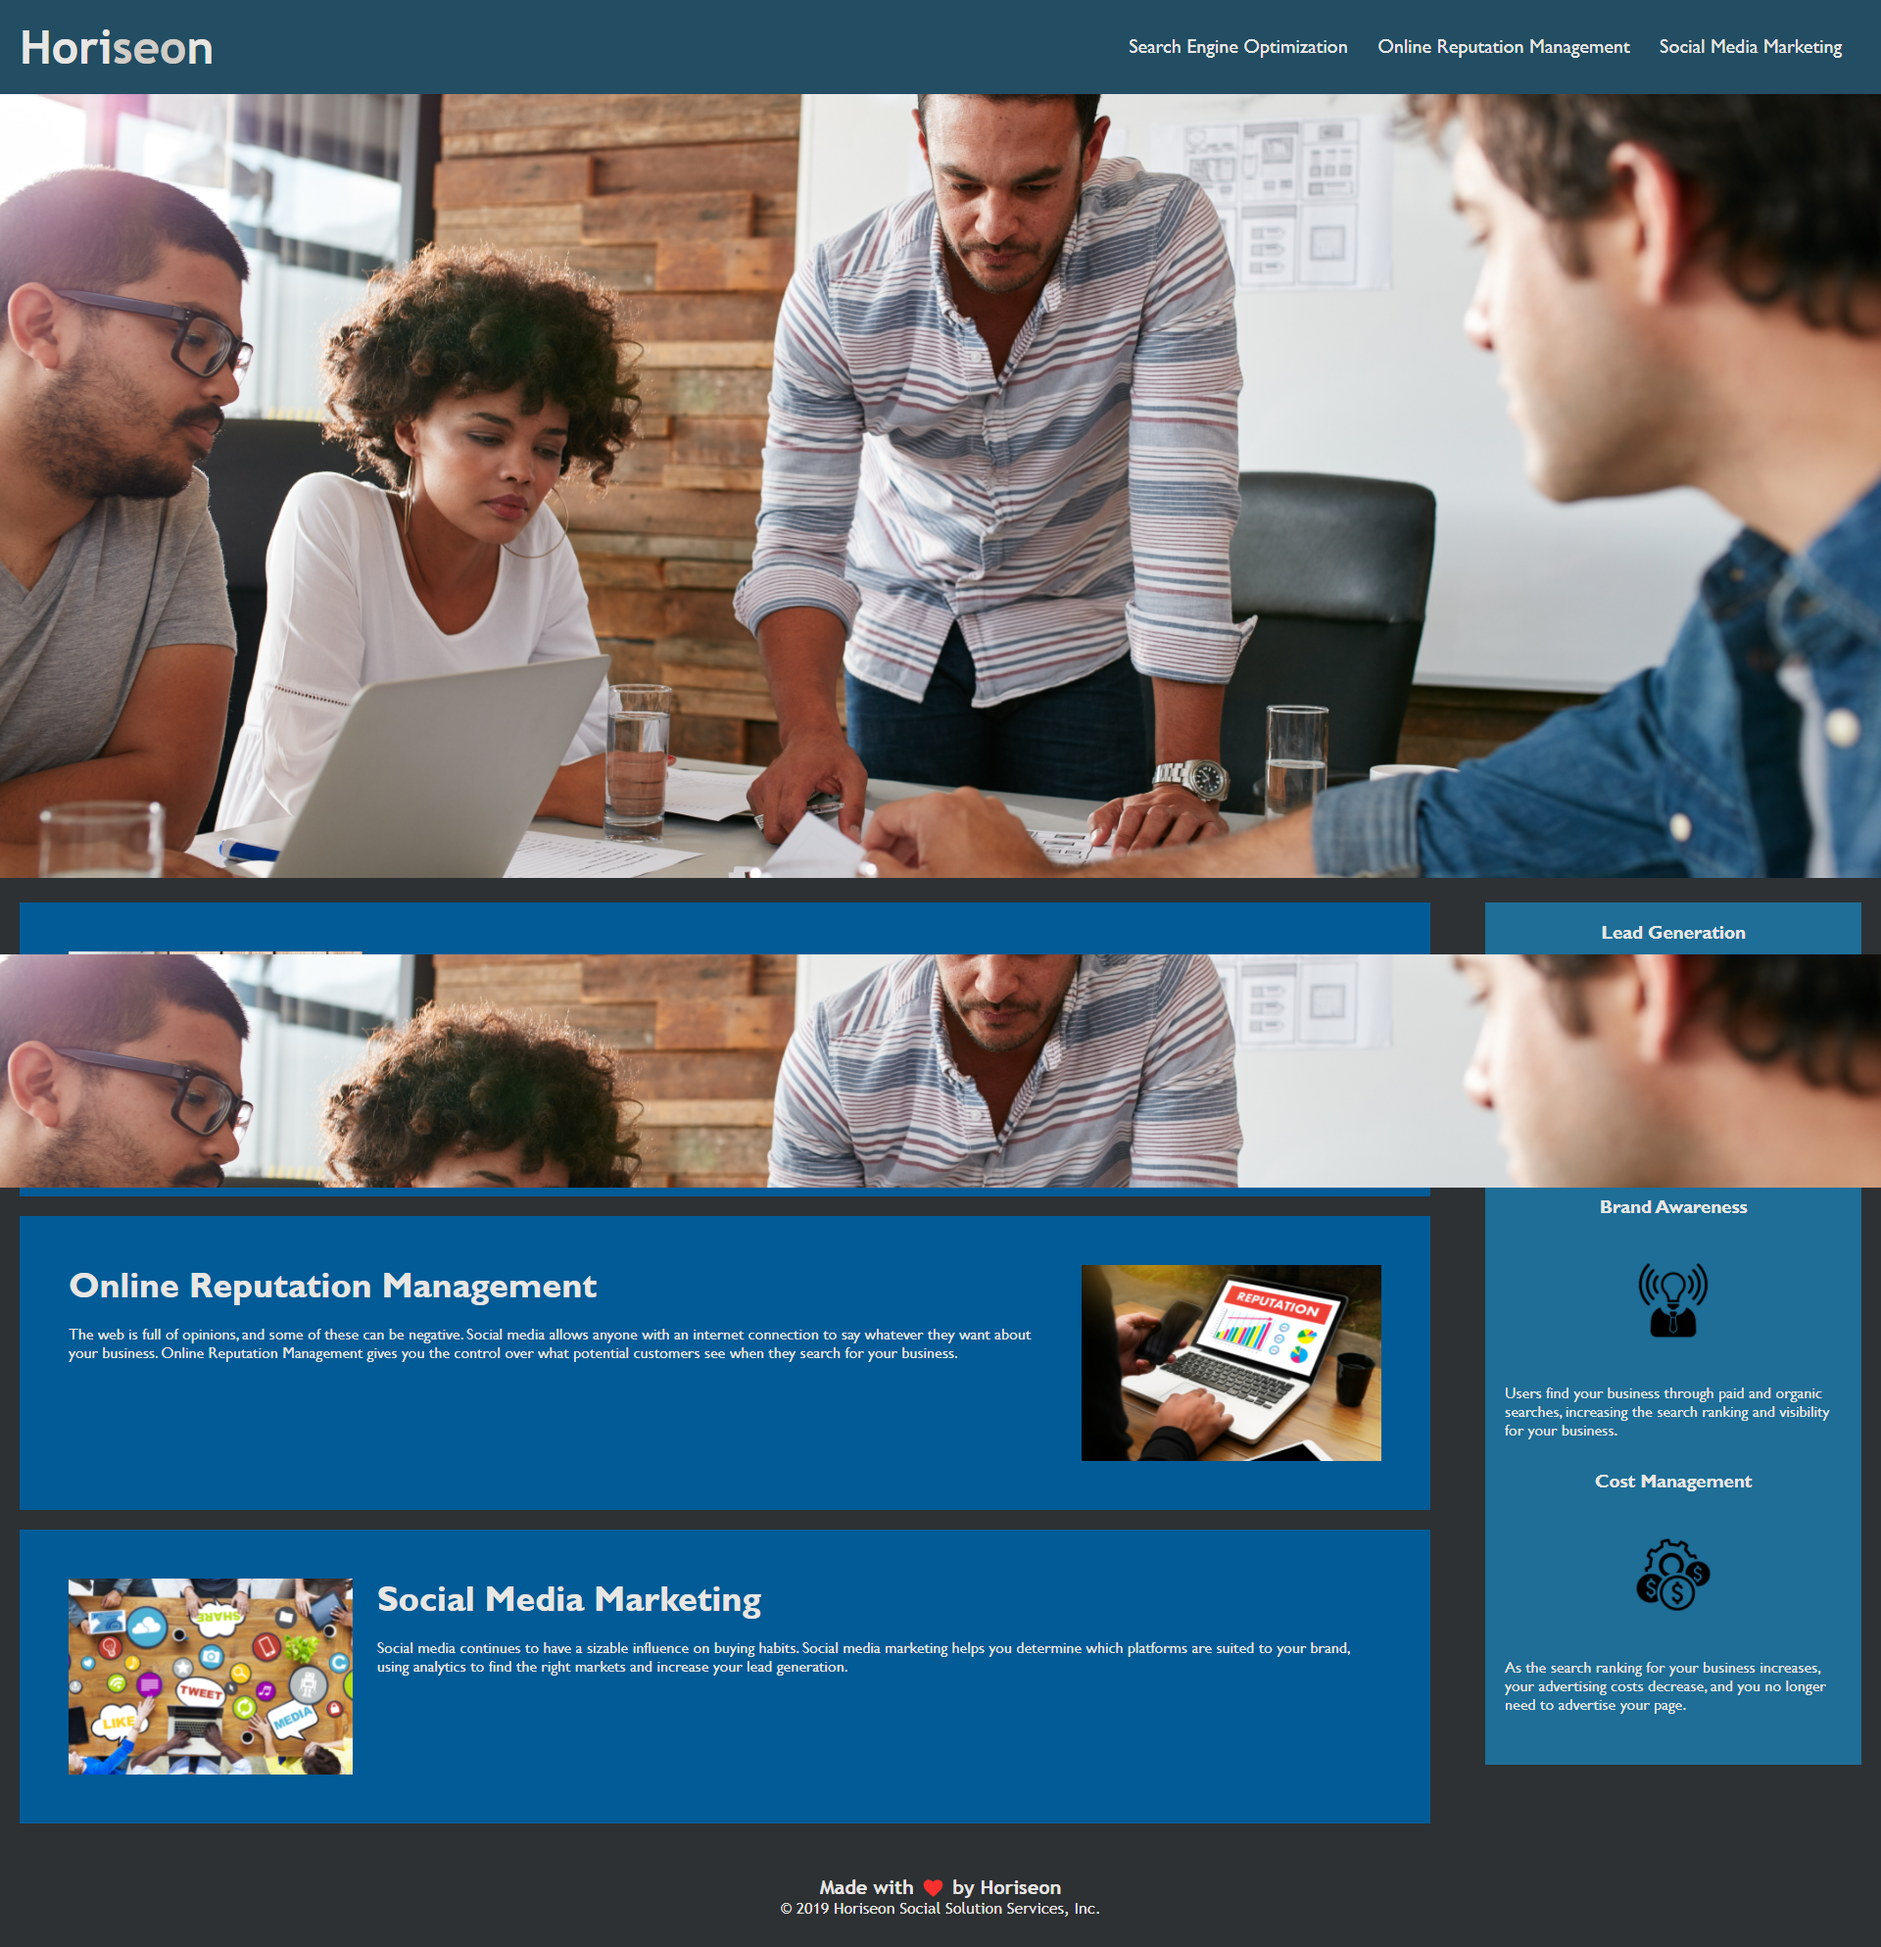
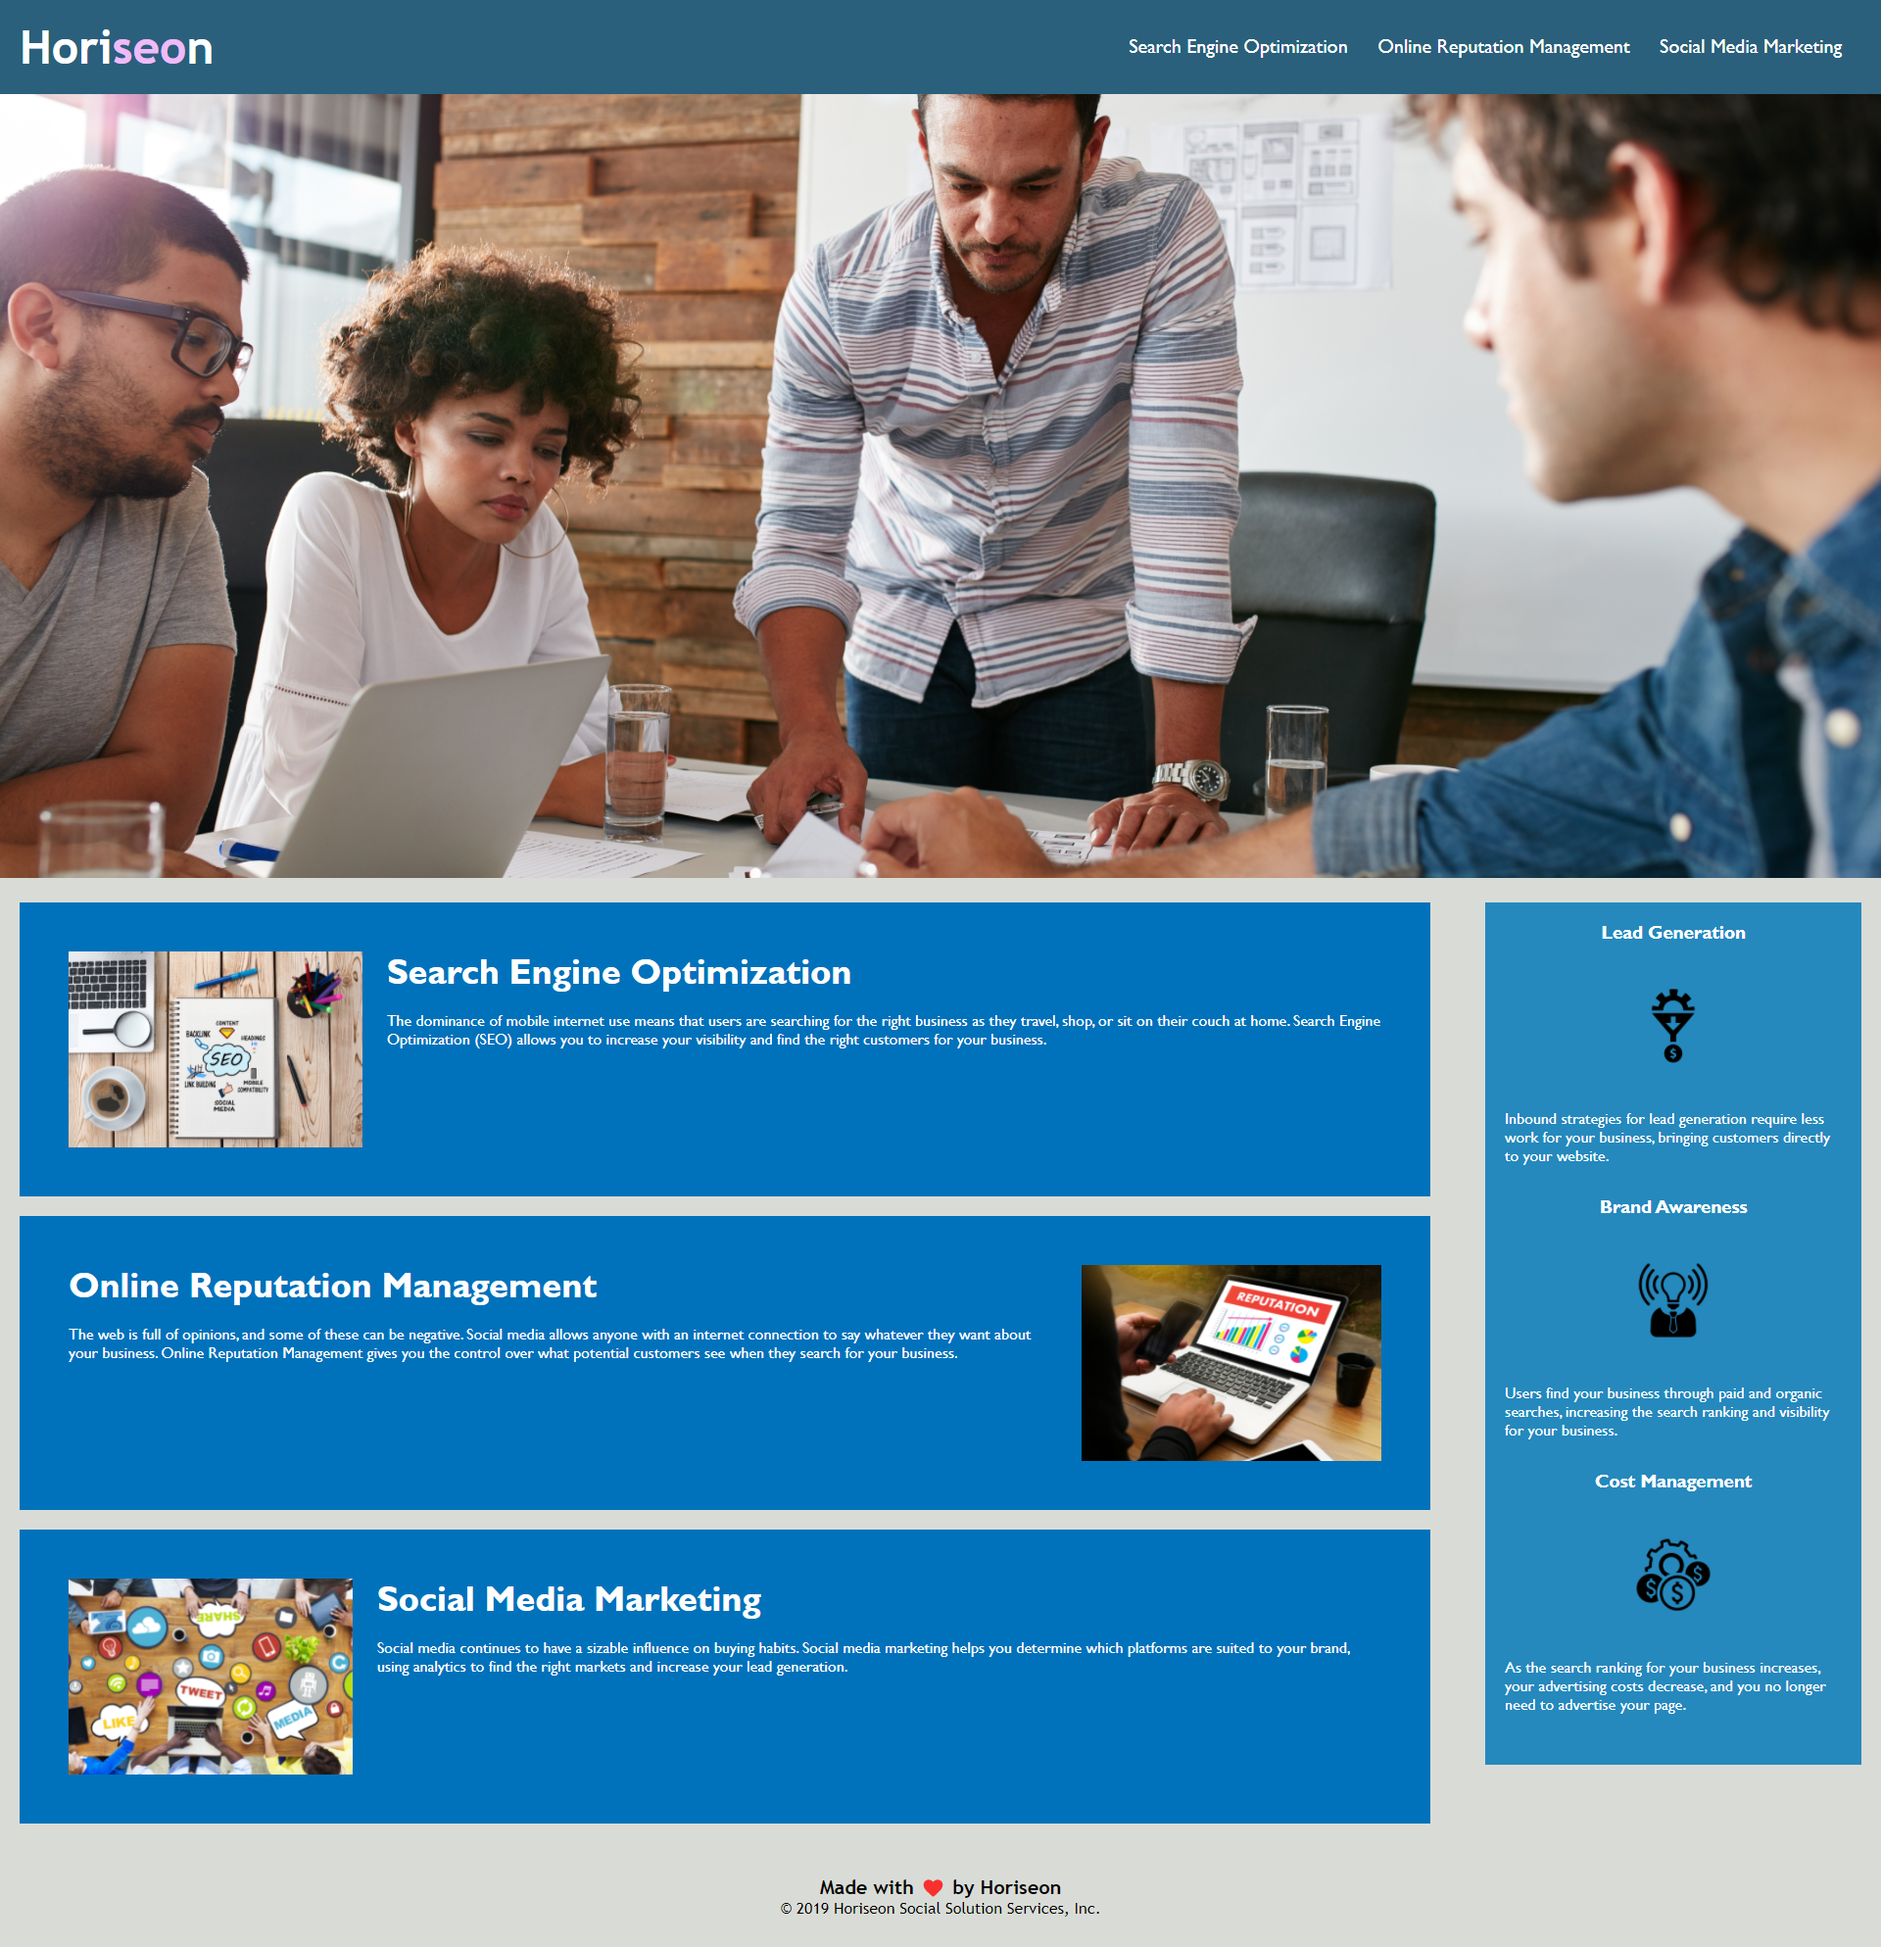
updated readme with new image changed color of span tag on line 13 of html on line 24 of css

diff --git a/index.html b/index.html
@@ -3,7 +3,8 @@
   <head>
     <meta charset="UTF-8" />
     <link rel="stylesheet" href="./assets/css/style.css" />
-    <title>website</title>
+    <!-- added title -->
+    <title>Horiseon</title>
   </head>
 
   <body>

diff --git a/assets/css/style.css b/assets/css/style.css
@@ -22,7 +22,7 @@ header h1 {
 }
 
 header h1 .seo {
-  color: #d9dcd6;
+  color: #eebbf8;
 }
 
 header nav {
